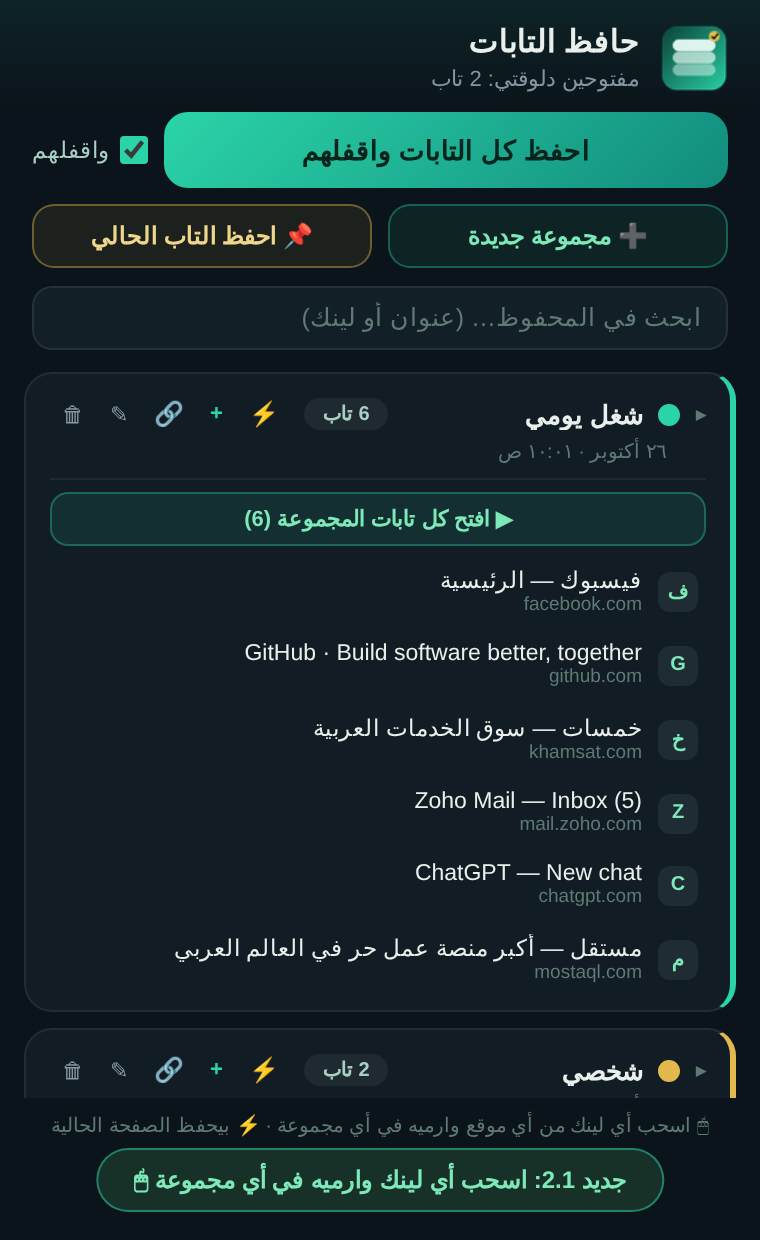
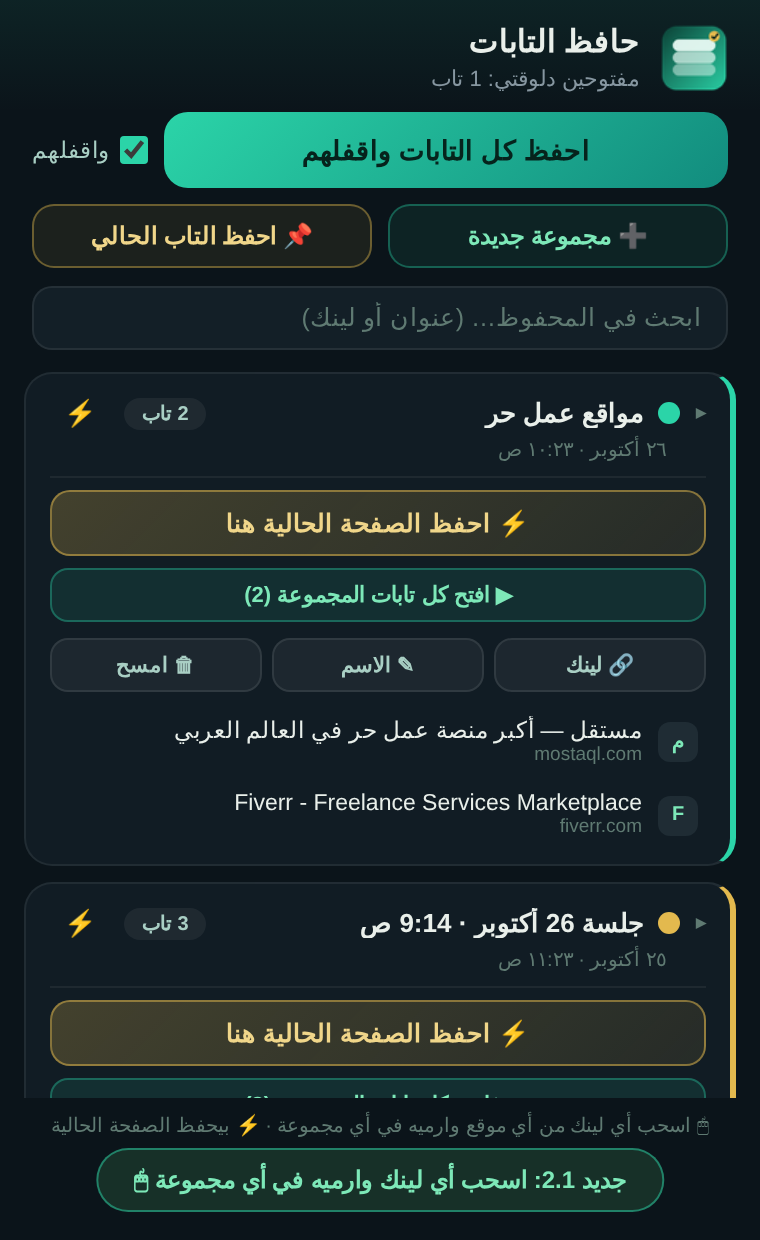
tab-keeper v2.2: per-group quick-save button, decluttered header, labeled tools

diff --git a/tab-keeper.html b/tab-keeper.html
@@ -63,6 +63,15 @@ h1 .gr{color:#7DE8B8}
   </div>
 
   <div class="card">
+    <h2>جديد النسخة 2.2 ✨</h2>
+    <ol>
+      <li><b>⚡ «احفظ الصفحة الحالية هنا» جوه كل مجموعة</b> — زرار كبير واضح: دوسة واحدة والصفحة اللي انت فيها تتسجل في المجموعة دي على طول (ولو المجموعة مقفولة، ⚡ موجود في الهيدر)</li>
+      <li><b>تصميم أريح وأوضح</b> — الهيدر نضيف، والأدوات بأسماء مفهومة: <b>🔗 لينك · ✎ الاسم · 🗑 امسح</b></li>
+      <li><b>اتشال زرار + القديم</b> اللي كان بيجلب كل التابات وبيشوّش</li>
+    </ol>
+  </div>
+
+  <div class="card">
     <h2>جديد النسخة 2.1 🖱</h2>
     <ol>
       <li><b>سحب وإفلات اللينكات</b> — اسحب أي لينك من أي موقع وارميه على أي مجموعة يتحفظ فورًا — المجموعة بتنوّر وتقول «افلت هنا»</li>
@@ -87,13 +96,14 @@ h1 .gr{color:#7DE8B8}
       <li><b>احفظ كل التابات واقفلهم</b> — كل تاباتك تتحفظ في جلسة وتتقفل، والمتصفح يبقى نضيف</li>
       <li><b>افتح الكل</b> — يرجّع كل تابات الجلسة مرة واحدة في أي وقت</li>
       <li><b>دوس على أي تاب</b> جوه المجموعة يفتح لوحده</li>
-      <li><b>+</b> يضيف تاباتك المفتوحة لمجموعة موجودة · <b>✎</b> يغيّر الاسم · <b>🗑</b> يمسح</li>
+      <li><b>⚡ احفظ الصفحة الحالية هنا</b> — زرار جوه كل مجموعة يسجّل الصفحة اللي انت فيها فيها فورًا</li>
+      <li><b>🔗 لينك</b> تضيف أي لينك بنفسك · <b>✎ الاسم</b> يغيّر الاسم · <b>🗑 امسح</b> يمسح المجموعة</li>
       <li><b>البحث</b> فوق — دوّر على أي حاجة محفوظة بالاسم أو اللينك</li>
     </ol>
     <div class="note">🔒 كل حاجة بتتخزن على جهازك انت بس — مفيش أي بيانات بتتبعت لأي حد، حتى لو قفلت كروم وفتحته المحفوظ زي ما هو.</div>
   </div>
 
-  <p class="foot">حافظ التابات · الإصدار 2.1 · لينك ثابت — احفظ الصفحة دي عشان ترجعلها في أي وقت</p>
+  <p class="foot">حافظ التابات · الإصدار 2.2 · لينك ثابت — احفظ الصفحة دي عشان ترجعلها في أي وقت</p>
 </div>
 </body>
 </html>
